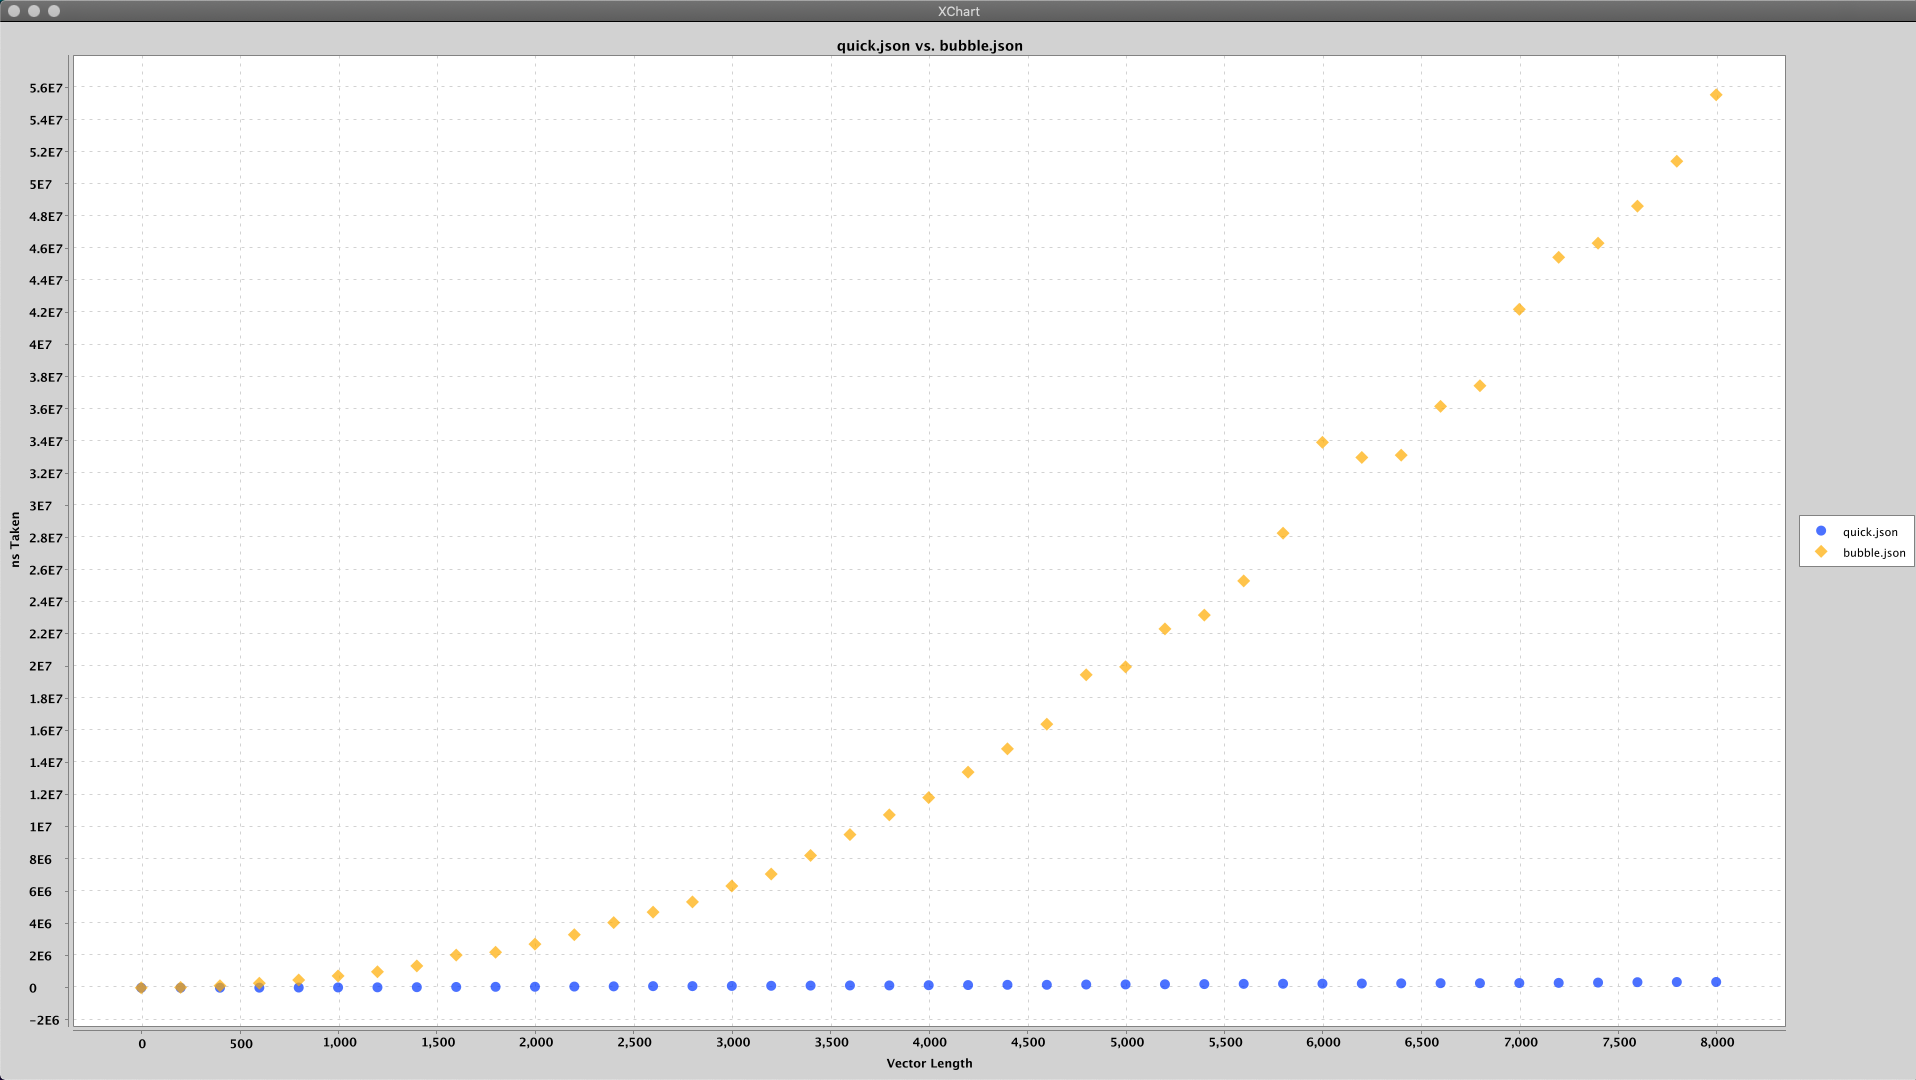
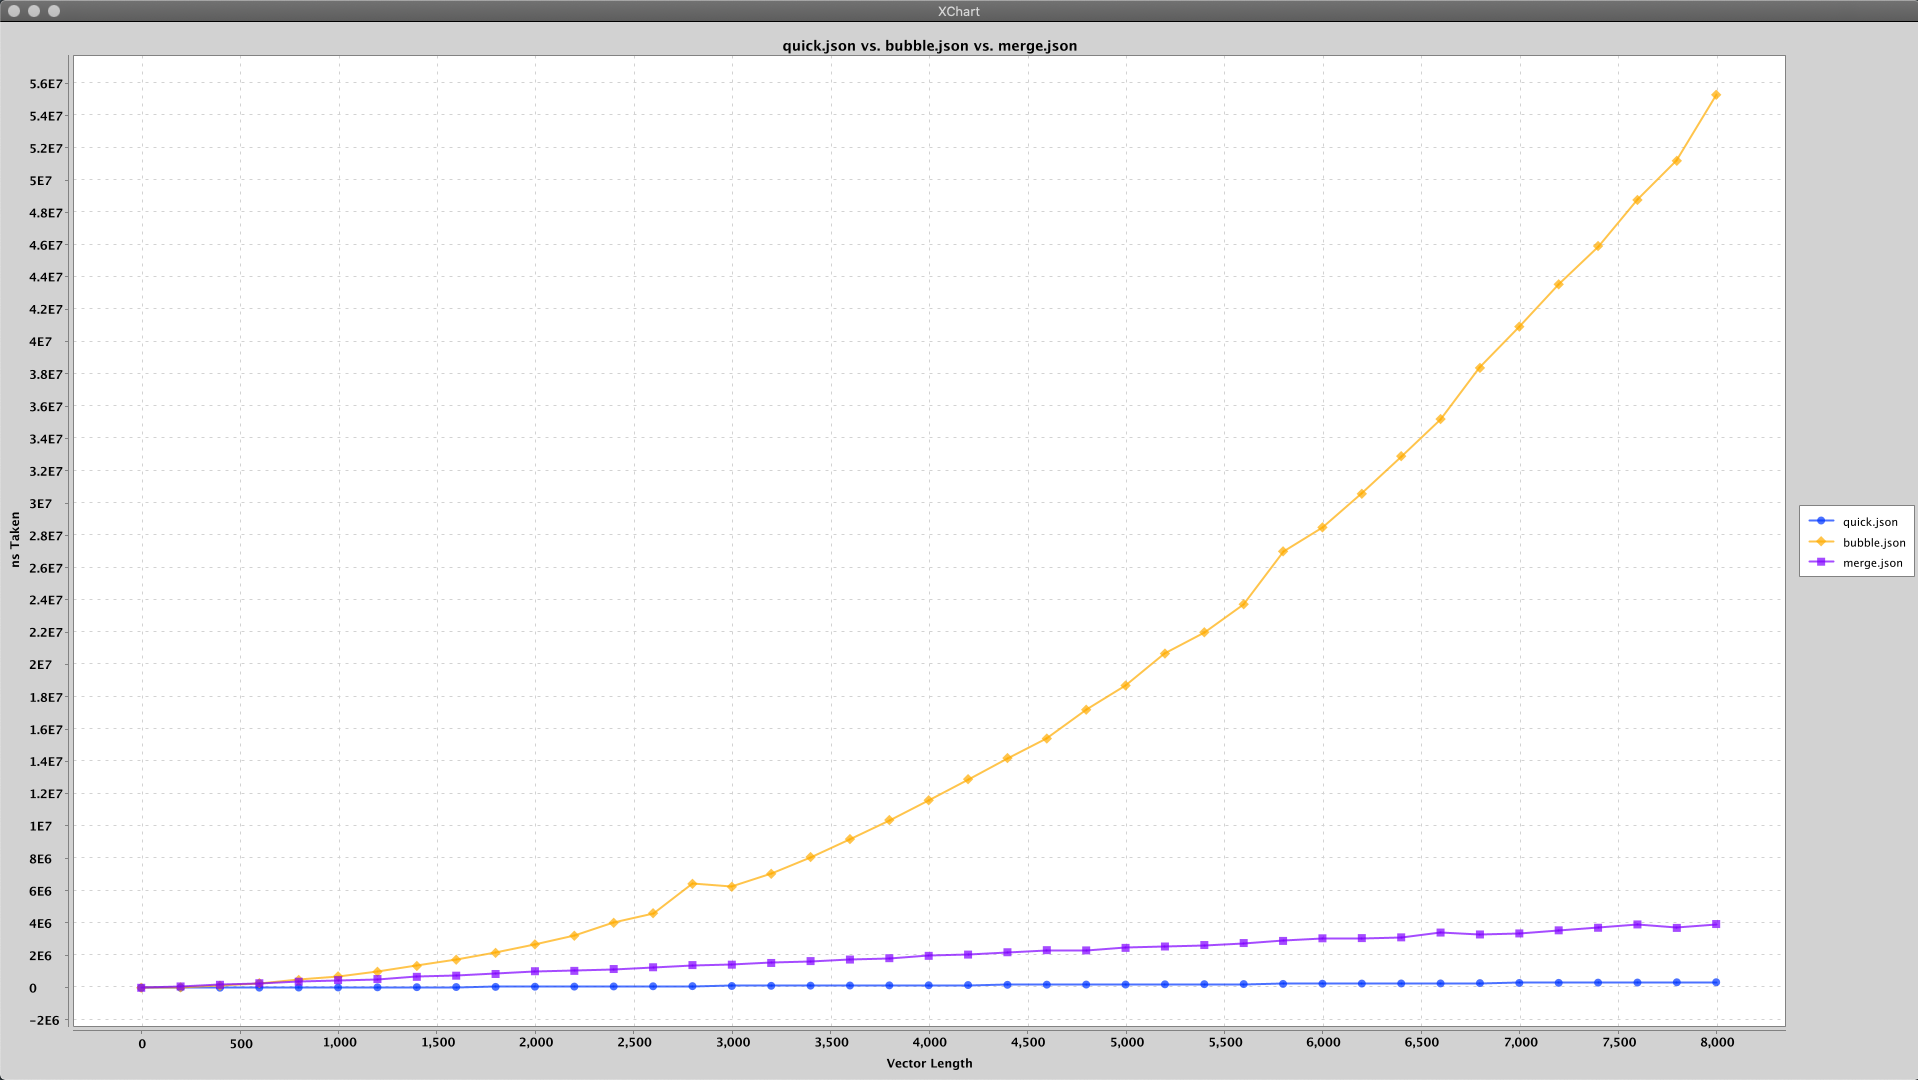
Added mergesort

diff --git a/mergesort/mergesort.hpp b/mergesort/mergesort.hpp
@@ -1,0 +1,50 @@
+#pragma once
+
+#include <array>
+#include <limits>
+#include <deque>
+
+namespace{
+    template<typename Container>
+    void merge(const typename Container::iterator begin, const typename Container::iterator q, const typename Container::iterator end){
+        using vt = typename Container::value_type;
+        auto left = std::deque<vt>(begin, q);
+        auto right = std::deque<vt>(q, end);
+        left.emplace_back(std::numeric_limits<vt>::max());
+        right.emplace_back(std::numeric_limits<vt>::max());
+        for(auto k = 0; k < std::distance(begin, end); k++){
+            if(left.front() <= right.front()){
+                *std::next(begin, k) = left.front();
+                left.pop_front();
+            }
+            else{
+                *std::next(begin, k) = right.front();
+                right.pop_front();
+            }
+        }
+    }
+}
+
+template<typename Container>
+void mergesort(typename Container::iterator begin, typename Container::iterator end){
+    if(begin < end - 1){
+        const auto q = std::next(begin, std::distance(begin, end)/2);
+        mergesort<Container>(begin, q);
+        mergesort<Container>(q, end);
+        merge<Container>(begin, q, end);
+    }
+}
+
+template<typename T, size_t Len>
+std::array<T, Len> mergesort(const std::array<T, Len>& unsorted){
+    auto rc = unsorted;
+    mergesort<std::array<T, Len>>(rc.begin(), rc.end());
+    return rc;
+}
+
+template<typename Container>
+Container mergesort(const Container& unsorted){
+    auto rc = unsorted;
+    mergesort<Container>(rc.begin(), rc.end());
+    return rc;
+}

diff --git a/plotter/speed_plotter/src/main/java/speed_plotter/App.java b/plotter/speed_plotter/src/main/java/speed_plotter/App.java
@@ -9,6 +9,7 @@ import org.knowm.xchart.XYChart;
 import org.knowm.xchart.XYChartBuilder;
 import org.knowm.xchart.XYSeries.XYSeriesRenderStyle;
 
+import java.io.File;
 import java.io.FileNotFoundException;
 import java.io.FileReader;
 import java.io.IOException;
@@ -21,13 +22,17 @@ public class App {
 		System.out.println("App <results json file> ...");
 	}
 
+	static String basename(String path) {
+		String[] parts = path.split(File.separator);
+		return parts[parts.length-1];
+	}
 	public static void main(String[] args) throws IOException {
 		if (args.length < 1) {
 			usage();
 			return;
 		}
 
-		String title = args[0];
+		String title = basename(args[0]);
 
 		XYChart c = new XYChartBuilder().width(600).height(480)
 				.xAxisTitle("Vector Length").yAxisTitle("ns Taken").build();
@@ -36,7 +41,7 @@ public class App {
 		for (int i = 0; i < args.length; i++) {
 			String fname = args[i];
 			if (i > 0) {
-				title += " vs. " + fname;
+				title += " vs. " + basename(fname);
 			}
 			try (FileReader fr = new FileReader(fname)) {
 				JSONObject json = (JSONObject) jp.parse(fr);
@@ -58,7 +63,7 @@ public class App {
 						.map(BenchmarkRun::getNs_taken)
 						.collect(Collectors.toList());
 
-				c.addSeries(fname, xData, yData);
+				c.addSeries(basename(fname), xData, yData);
 			} catch (FileNotFoundException e) {
 				e.printStackTrace();
 			} catch (IOException e) {

diff --git a/mergesort/mergetest.cpp b/mergesort/mergetest.cpp
@@ -1,0 +1,21 @@
+#include "gtest/gtest.h"
+#include "fmt/format.h"
+#include "fmt/ranges.h"
+#include "mergesort.hpp"
+#include "makearray.hpp"
+
+TEST(sorts, sortsArray){
+    constexpr auto unsorted = make_array<int>(8,7,6,5,4,3,2,1);
+    const auto sorted = mergesort(unsorted);
+    ASSERT_TRUE(std::is_sorted(sorted.cbegin(), sorted.cend()));
+}
+
+TEST(sorts, sortsVector){
+    const auto unsorted = std::vector<int>{8,7,6,5,4,3,2,1};
+    const auto sorted = mergesort(unsorted);
+    ASSERT_TRUE(std::is_sorted(sorted.cbegin(), sorted.cend()));
+}
+int main(int argc, char **argv) {
+    ::testing::InitGoogleTest(&argc, argv);
+    return RUN_ALL_TESTS();
+}

diff --git a/mergesort/mergebenchmark.cpp b/mergesort/mergebenchmark.cpp
@@ -1,0 +1,19 @@
+#include "benchmark/benchmark.h"
+#include "mergesort.hpp"
+
+void mergebenchmark(benchmark::State& state){
+    const auto uut = [&state](){
+        auto rc = std::vector<int>{{}};
+        std::generate_n(std::back_inserter(rc), state.range(0),[](){
+            return std::rand();
+        });
+        return rc;
+    }();
+
+    for(auto _ : state){
+        mergesort(uut);
+    }
+}
+
+BENCHMARK(mergebenchmark)->DenseRange(0, 8000, 200);
+BENCHMARK_MAIN();

diff --git a/README.md b/README.md
@@ -1,4 +1,4 @@
-# bubblesort vs quicksort benchmarker
+# bubblesort vs quicksort vs mergesort
 I did this as a kata of sorts - to get in the zone with TDD techniques and using tools. I also have been learning Java and wanted to use it for something. 
 
 ![speed graph](speed.png)
